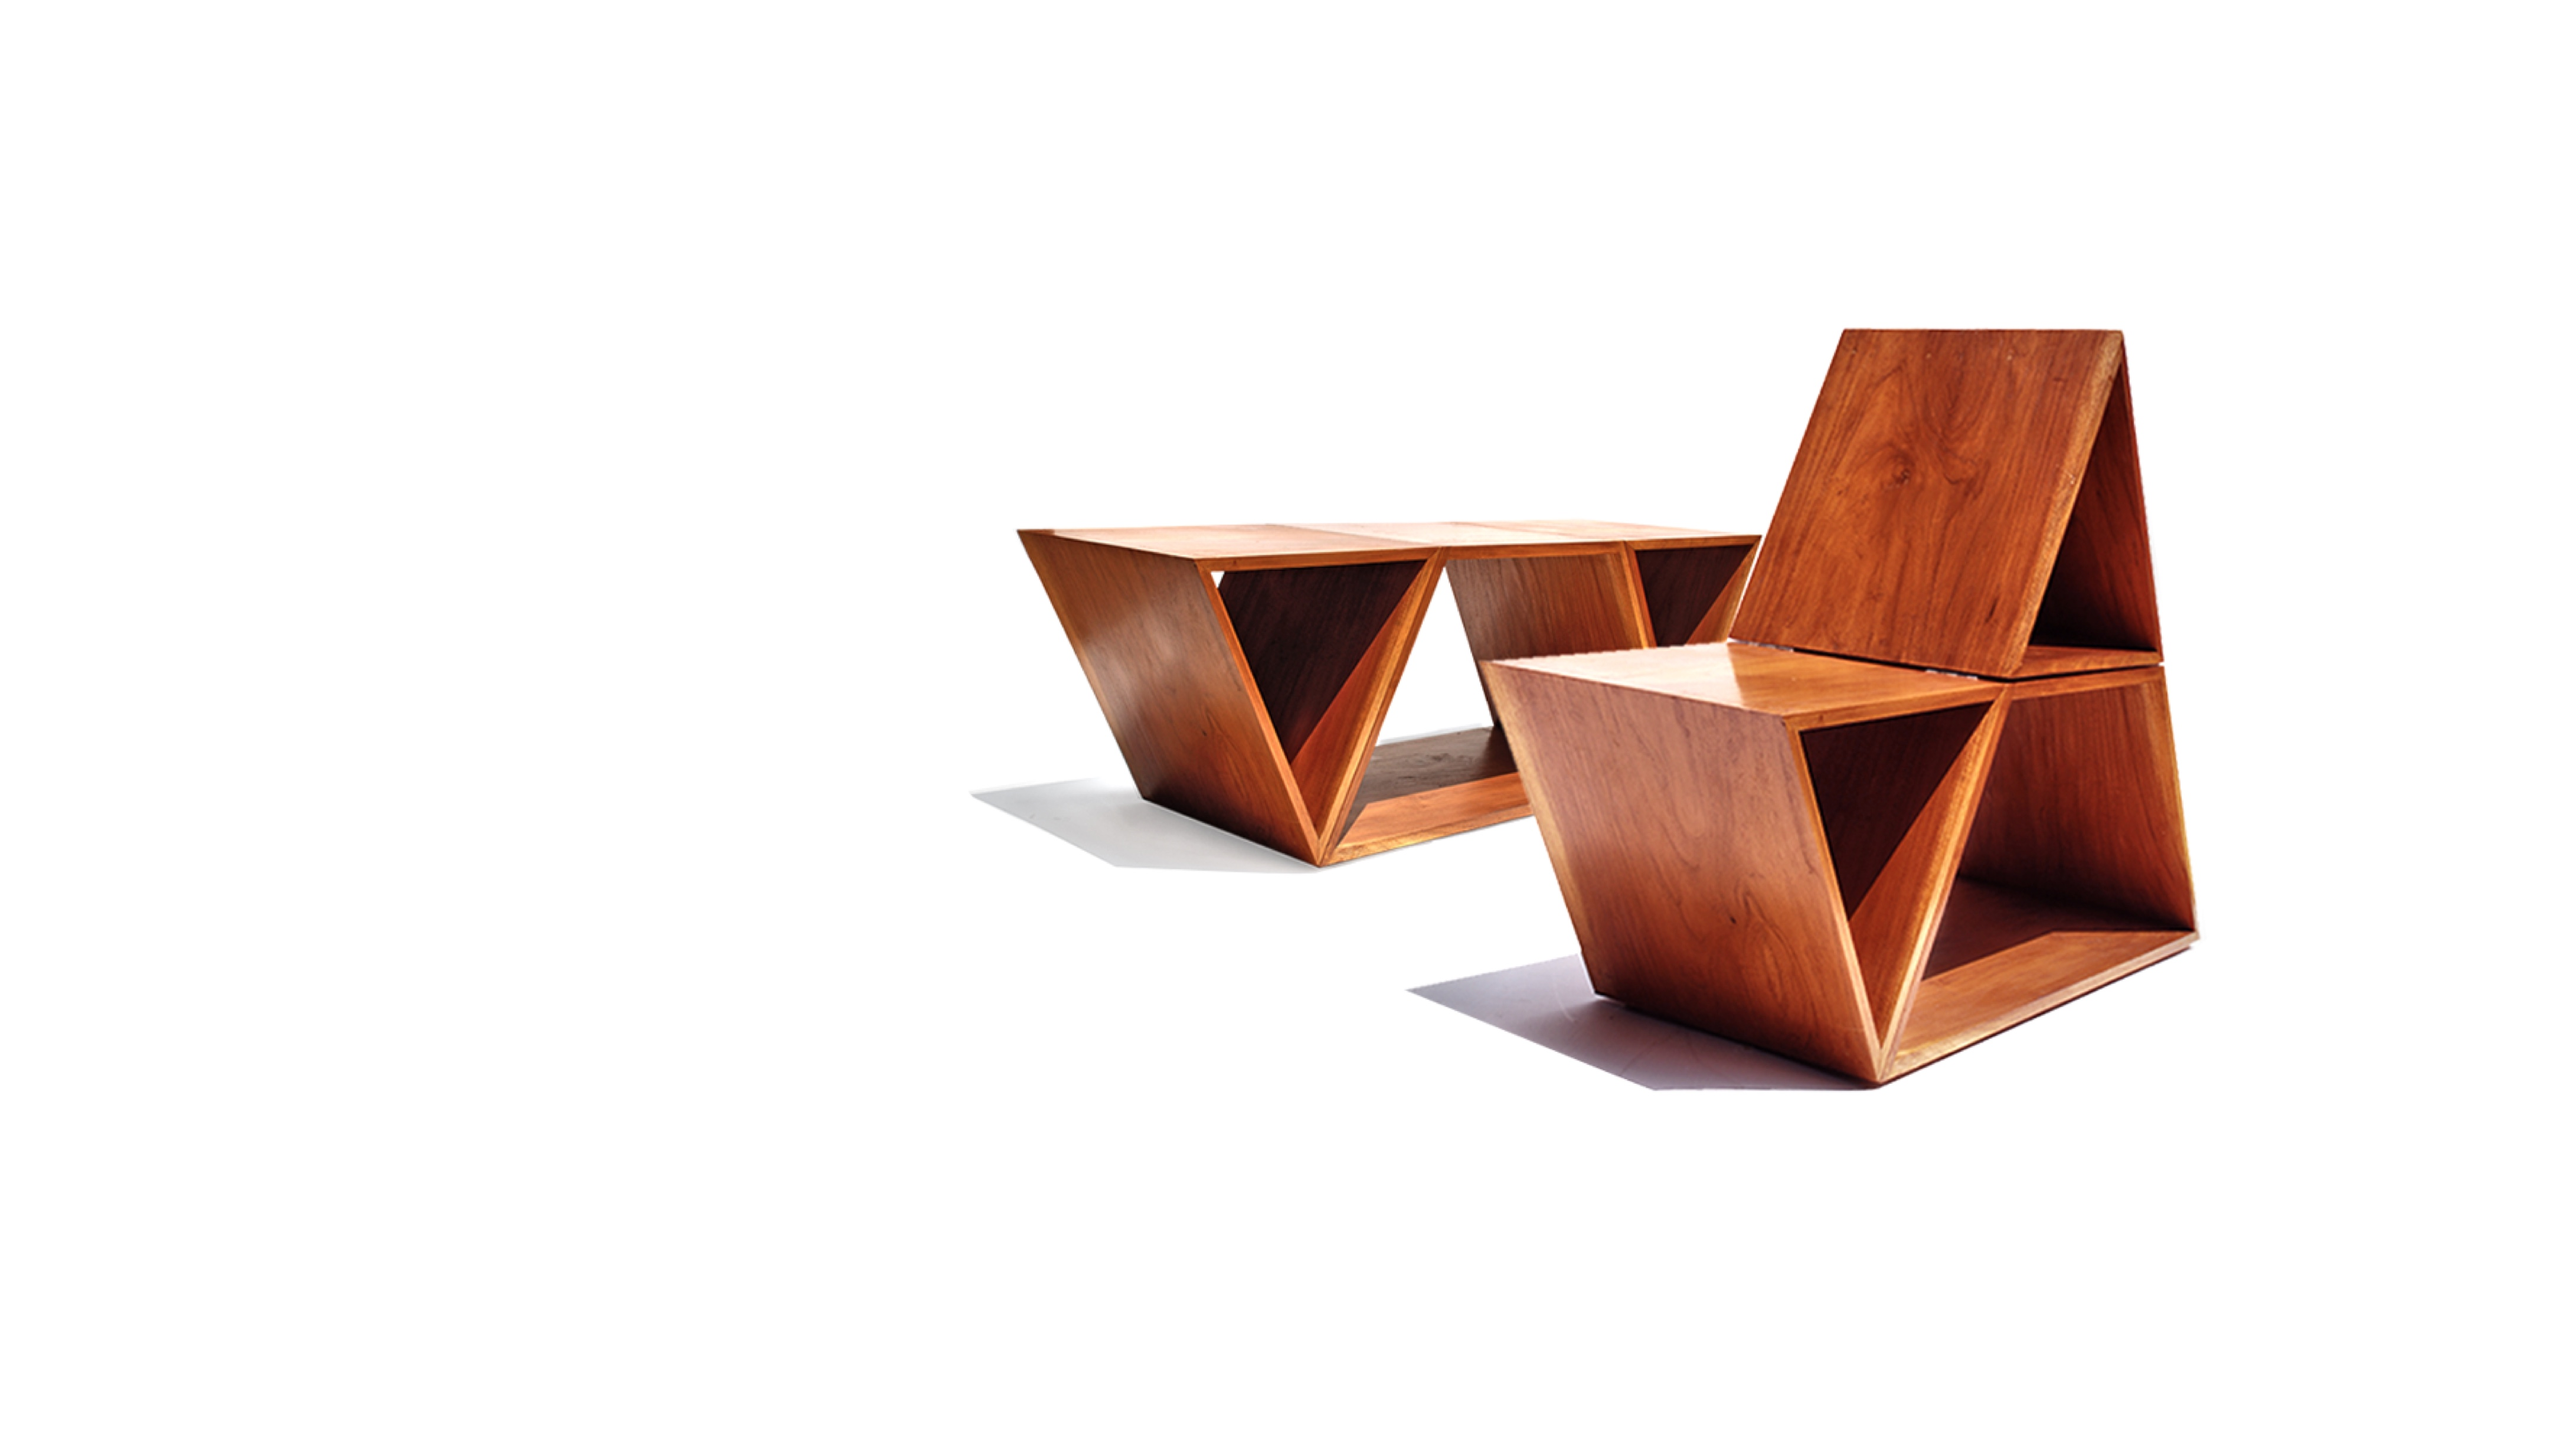
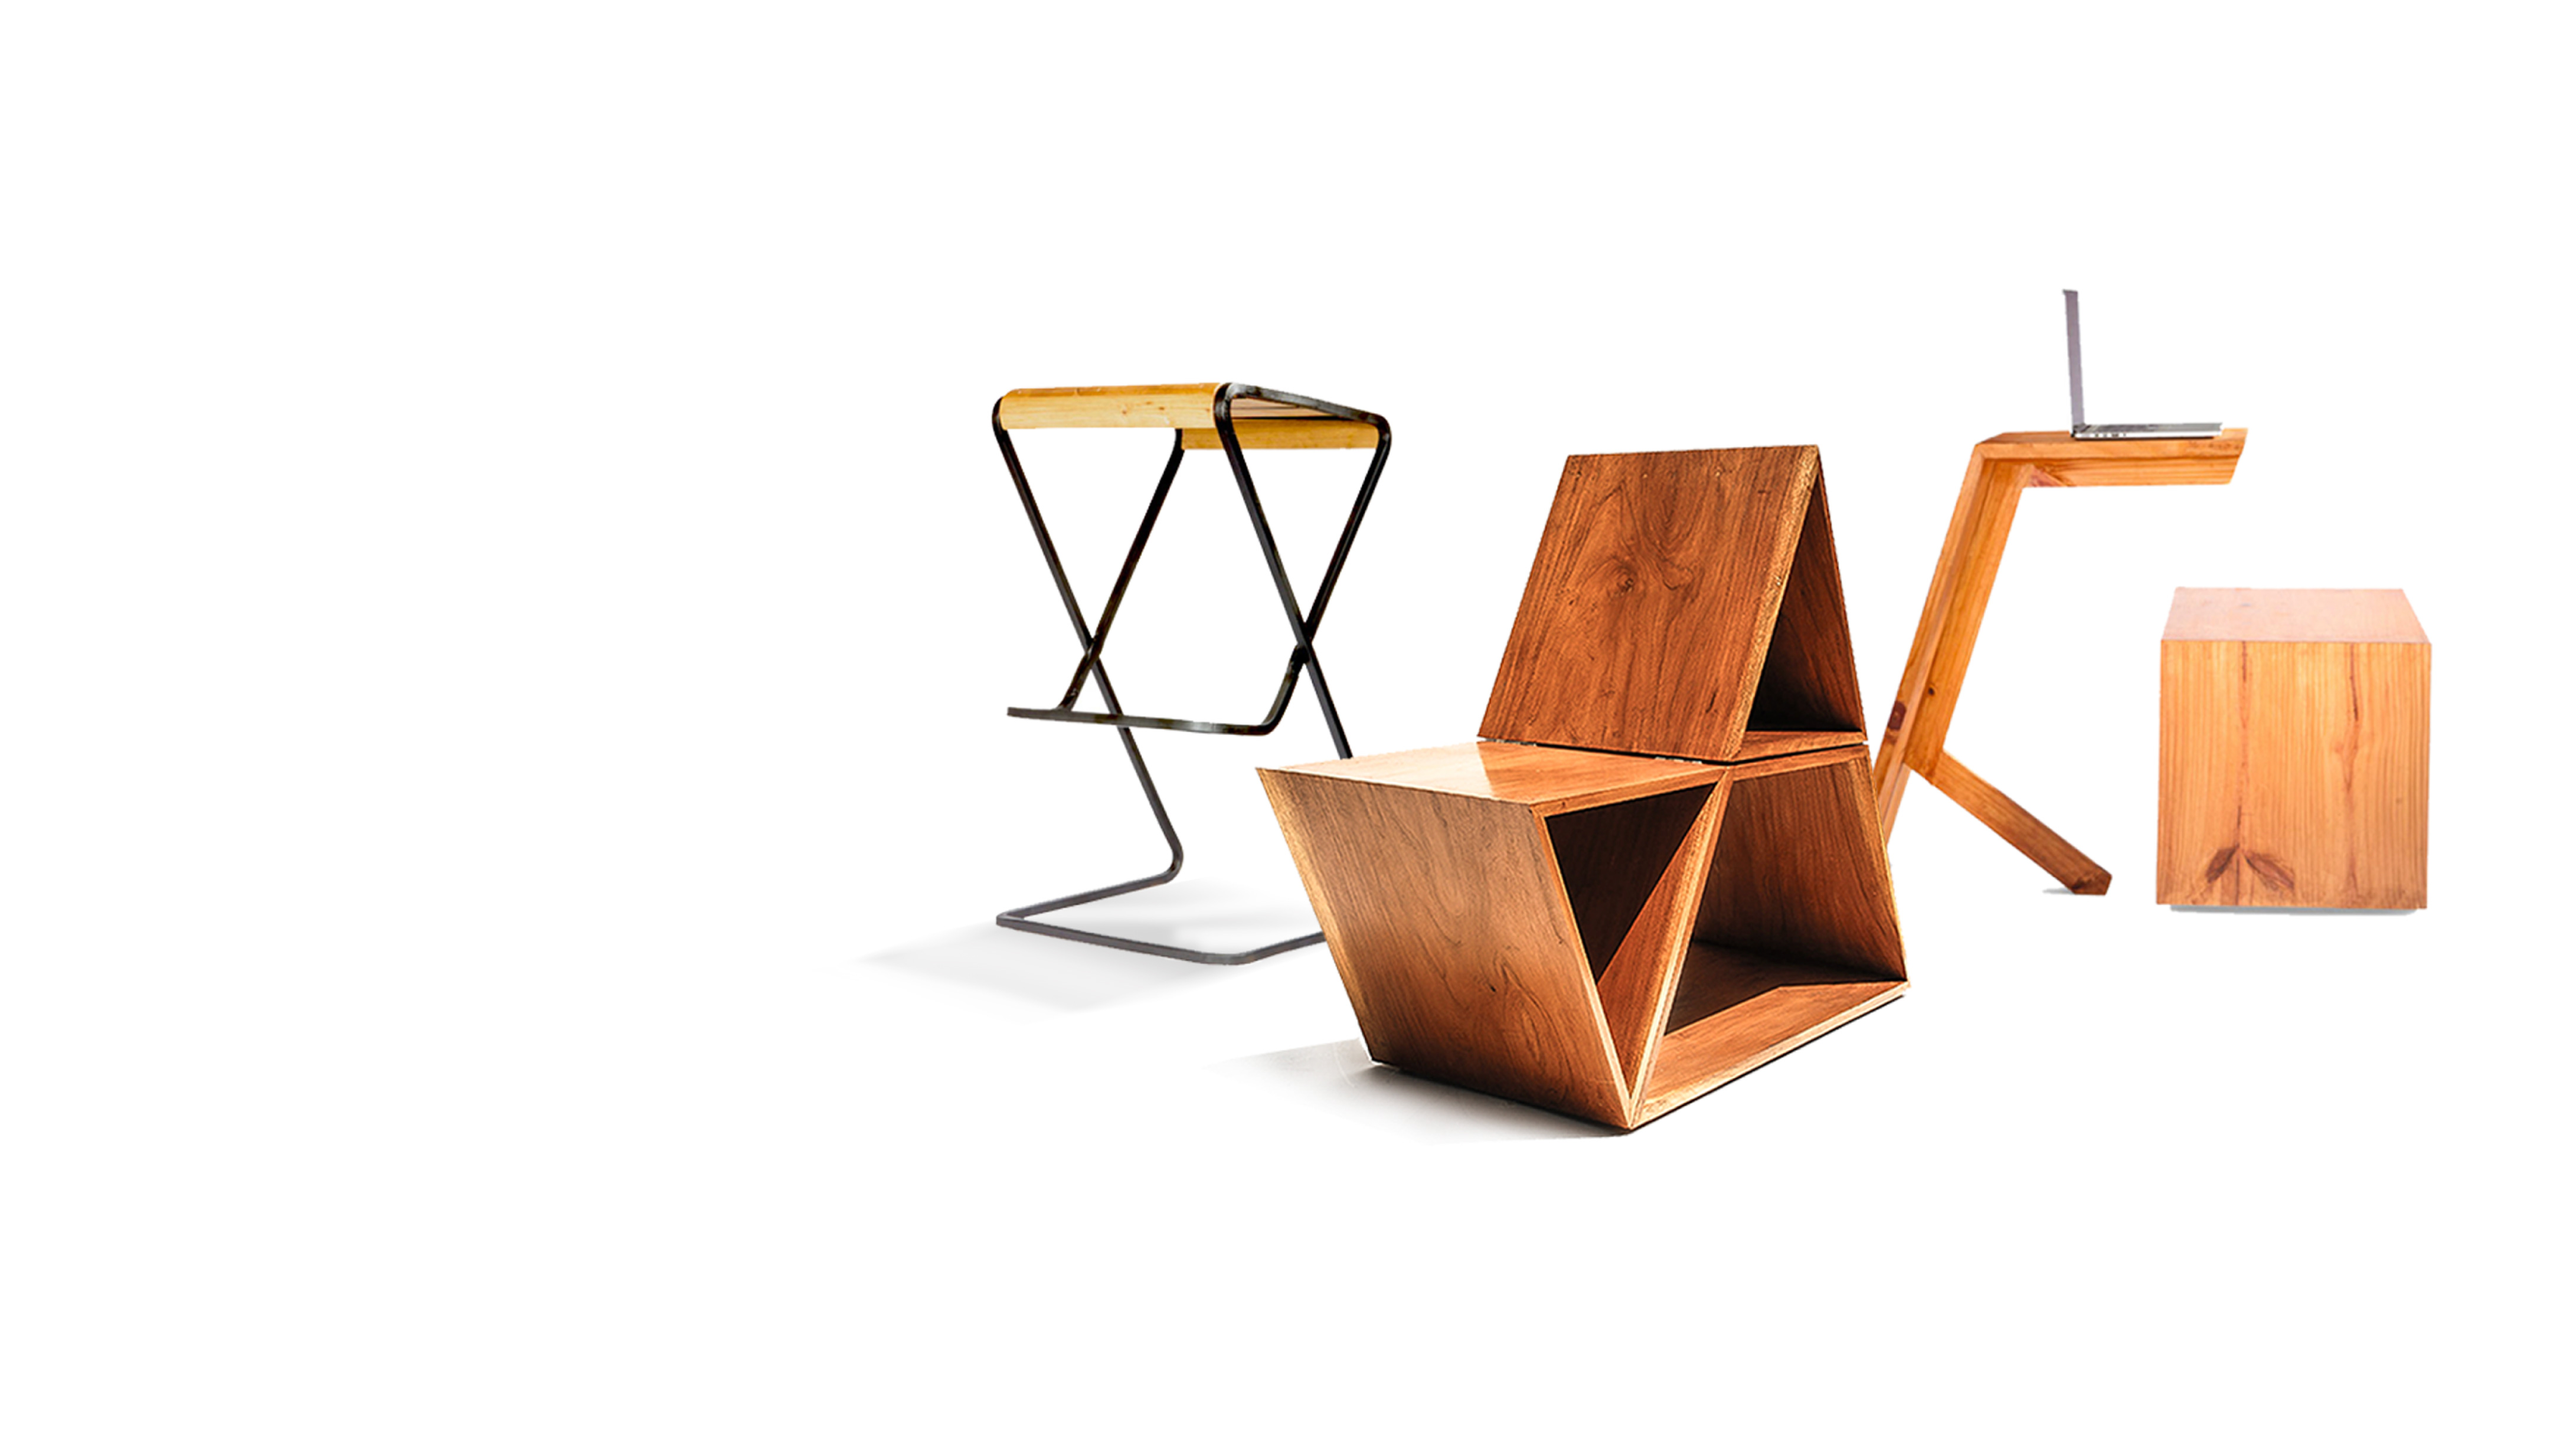
updated contents

Changed region(s): [[0.375, 0.2173, 0.9688, 0.8072]]

diff --git a/src/components/home/StudioSlideshow.js b/src/components/home/StudioSlideshow.js
@@ -9,7 +9,7 @@ import cafeMobile from '../../images/home/slideshow/cafe-mobile.png';
 import mouse from '../../images/home/slideshow/mouse.png';
 import arrowIcon from  '../../images/home/arrow-icon.png';
 import customFurniture from '../../images/home/slideshow/custom-furniture.jpg';
-import customFurnitureMobile from '../../images/home/slideshow/custom-furniture-mobile.png';
+import customFurnitureMobile from '../../images/home/slideshow/custom-furniture-mobile.jpg';
 import brandStrategy from '../../images/home/slideshow/brand-strategy.jpg';
 import brandStrategyMobile from '../../images/home/slideshow/brand-strategy-mobile.png';
 import uiUx from '../../images/home/slideshow/ui-ux.jpg';
@@ -39,7 +39,7 @@ function StudioSlideshow() {
 			]
 		},
 		{
-			captionHead:'Brand Strategy Agency', 
+			captionHead:'Brand Identity & Packaging Design ', 
 			captionContent: [
 				'Creating customised brand strategies to help expand your overall reach, and attract new customers',
 				'BRANDING AND PACKAGING'
@@ -53,19 +53,19 @@ function StudioSlideshow() {
 			]
 		},
 		{
-			captionHead:'Horticulture Architecture and Design', 
+			captionHead:'Architecture and Design', 
 			captionContent: [
 				'Training Centre Building Design and architecture is critical to the success of a skill development centre and sets the first impression.',
 				'FURNITURE DESIGN'
 			]
 		},
-		/*{
+		{
 			captionHead:'Retail Innovation Strategy & Design', 
 			captionContent: [
 				"Our mantra is, 'Innovation through retail design'. We connect to customers through emotionally rich interiors and drive engagement.",
 				'RETAIL'
 			]
-		}*/
+		}
 	];
 	const [carouselContent, setCarouselContent] = useState(carouselContents[0]);
 	const handleSelect = (selectedIndex) => {
@@ -79,8 +79,8 @@ function StudioSlideshow() {
 	const slideCaptionContent = (slideContent, index) => {
 		return (
 			<>
-				<p className={(index===4) && 'architecture-heading'} >{slideContent.captionHead}</p>
-				<p className={(index===4) && 'architecture-content'}>{slideContent.captionContent[0]}</p>
+				<p>{slideContent.captionHead}</p>
+				<p className={'architecture-content'}>{slideContent.captionContent[0]}</p>
 				{(width<768) &&(<div className='slideshow-indicator'>
 					<span style={{backgroundColor: (index===0) ? '#ff0000':'#d8d8d8'}}></span>
 					<span style={{backgroundColor: (index===1) ? '#ff0000':'#d8d8d8'}}></span>
@@ -132,22 +132,25 @@ function StudioSlideshow() {
 					      alt="Architecture Slide"
 					    />
 					  </Carousel.Item>}
-					  {/*<Carousel.Item className='architecture-slide'>
+					  {<Carousel.Item className='architecture-slide'>
 					    <img
 					      className="d-block w-100"
 					      src={(width >= 768) ? retail : retailMobile}
 					      alt="Architecture Slide"
 					    />
-					  </Carousel.Item>*/}
+					  </Carousel.Item>}
 				</Carousel>
 				{(width >= 768) && (
-					<div className='studio-slide-caption'>
-						{slideCaptionContent(carouselContent, index)}
-					</div>
+					<>
+						<div className='studio-slide-caption'>
+							{slideCaptionContent(carouselContent, index)}
+						</div>
+						<div className='caption-background'></div>
+					</>
 				)}		
 				<span className='mouse-pointer'><img src={mouse} alt='mouse pointer' /></span>
 			</Row>
-			{(width < 768) && (<div className='studio-slide-caption'z>{slideCaptionContent(carouselContent, index)}</div>)}
+			{(width < 768) && (<div className='studio-slide-caption'>{slideCaptionContent(carouselContent, index)}</div>)}
 		</div>
 			
 	);

diff --git a/src/components/home/DesignProcess.js b/src/components/home/DesignProcess.js
@@ -27,23 +27,19 @@ function DesignProcess() {
 			<Row className='design-process-img-details'>
 				<Col md={3} xs={6} className='design-process-img-desc' style={{paddingLeft: (width >=768) && '2em'}}>
 					{(width < 768) && <Image src={discovery} />}
-					<p>CLIENT MEETING</p>
-					<p>Visioning & Strategy Planning & Scheduling Understanding the space Client Interview Gather Brand Assets</p>
+					<p>CLIENT MEETING</p>					
 				</Col>
 				<Col md={3} xs={6} className='design-process-img-desc'>
 					{(width < 768) && <Image src={customerResearch} />}
 					<p>USER/CUSTOMER RESEARCH</p>
-					<p>Competitive Analysis User/Customer Research Gather Proposed Materials Implementation Budget Concept Presentation</p>
 				</Col>
 				<Col md={3} xs={6} className='design-process-img-desc'>
 					{(width < 768) && <Image src={ideate} />}
-					<p>DESIGN DEVELOPMENT</p>
-					<p>Concept Refinement Develop Concepts Design Specifications Detail Drawings Develop Prototypes</p>
+					<p>DESIGN DEVELOPMENT</p>					
 				</Col>
 				<Col md={3}  xs={6} className='design-process-img-desc'>
 					{(width < 768) && <Image src={implitation} />}
 					<p>EXECUTION</p>
-					<p>Coordination with other trades Implementation Budget Schedule Installation Produce and Install Project Complete</p>
 				</Col>
 			</Row>
 			<Row className='know-more-wrapper'>

diff --git a/src/css/home/studio-slideshow.scss b/src/css/home/studio-slideshow.scss
@@ -5,11 +5,7 @@
 		position: relative !important;
 	}
 	.studio-slides {
-		.slide-caption {
-			background-image: url('../../images/home/slideshow/caption-background.png');
-			background-size: 100%;
-			background-repeat: no-repeat;
-			background-position: center;
+		.slide-caption {			
 			top: 25%;
 		    width: 32.16vw;
 		    left: 10.5%;
@@ -57,6 +53,7 @@
 				font-family: Proxima Nova Rg;
 				font-weight: normal;
 				width: 22em;
+				font-size: 10px;
 			}
 
 			p:first-child.architecture-slide  {
@@ -93,8 +90,6 @@
 				}
 			}
 		}
-
-
 		.carousel-indicators {
 		    li {
 				border-radius: 100%;
@@ -147,13 +142,23 @@
 		}	
 	}
 
+	.caption-background {
+		position: absolute;			
+		background-image: url('../../images/home/slideshow/caption-background.png');
+		background-repeat: no-repeat;		
+	    background-position: center;
+	    top: 11%;
+	    left: 11%;
+    	padding: 16.2em;
+	    background-size: cover;
+	    opacity: 0.7;
+	}
+
 	.studio-slide-caption {
 		position: absolute;	
 		left: 10.6%;
 		top: 26.8%;
-		background-image: url('../../images/home/slideshow/caption-background.png');
-			background-size: 100%;
-			background-repeat: no-repeat;
+		
 
 		p {
 			 font-family: Proxima Nova Rg;
@@ -392,6 +397,7 @@
 				}
 			}
 			.studio-slide-caption {
+				z-index: 1;
 				left: 10.6%;
 				top: 26.8%;
 

diff --git a/src/routes/NavigationBar.js b/src/routes/NavigationBar.js
@@ -26,7 +26,7 @@ function NavigationBar(argument) {
 					<Navbar.Brand href="#" bsPrefix='navbar brand-image'><img src={brandImage} alt='brandImage'/></Navbar.Brand>
 				  	<Navbar id="responsive-navbar-nav" bsPrefix={width > 768 ? 'navbar studio-navbar':''}>
 				  		<Nav className="mx-auto" >
-				  			<Nav.Link bsPrefix='nav-link route-type'><NavLink exact activeClassName='activeNav' to='/about-studio/team'>ABOUT</NavLink></Nav.Link>
+				  			<Nav.Link bsPrefix='nav-link route-type'><NavLink exact activeClassName='activeNav' to='/about-studio/firm'>ABOUT</NavLink></Nav.Link>
 					      	<Nav.Link bsPrefix='nav-link route-type'><NavLink exact activeClassName='activeNav' to='/category/all'>WORK</NavLink></Nav.Link>
 					      	<Nav.Link href='https://karankal.store/' target='_blank' bsPrefix='nav-link route-type'><a>STORE</a></Nav.Link>
 					      	<Nav.Link bsPrefix='nav-link route-type' href='https://studiokarankal.wordpress.com/' target='_blank'><a>BLOG</a></Nav.Link>

diff --git a/src/container/Home.js b/src/container/Home.js
@@ -13,6 +13,7 @@ import ServiceOffered from '../components/home/ServiceOffered';
 import DesignProcess from '../components/home/DesignProcess';
 import Testimonals from '../components/home/Testimonals';
 import Feature from '../components/home/Feature';
+import Story from '../components/home/Story';
 // import ContactUs from '../components/home/ContactUs';
 import ContactUs  from '../components/category/contactus/ContactUs';
 import contactOptions  from '../components/category/contactus/ContactOptions';
@@ -35,6 +36,7 @@ function Home() {
 							<DesignProcess/>
 							<Testimonals/>
 							<Feature/>
+							<Story/>
 						</Col>
 					<Col md={1} sm ={0} className='home-content-margin'></Col>
 				</Row>

diff --git a/src/components/home/Story.js b/src/components/home/Story.js
@@ -1,0 +1,25 @@
+import React from  'react';
+import {
+	Col,
+	Row,
+	ResponsiveEmbed
+} from 'react-bootstrap';
+
+function Story() {
+	return (
+		<div className='story-wrapper'>
+			<Row>
+				<Col>
+					<p className='story-heading'>Story</p>
+					<div className='video-style'>
+					  <ResponsiveEmbed aspectRatio="16by9">
+					    <embed type="video/mp4" src='https://player.vimeo.com/video/388785172' />
+					  </ResponsiveEmbed>
+					</div>
+				</Col>
+			</Row>
+		</div>
+	)
+}
+
+export default Story;

diff --git a/src/css/home/design-process.scss b/src/css/home/design-process.scss
@@ -67,7 +67,6 @@
 			}
 
 			p:last-child {
-			    font-weight: normal;
 			    line-height: 1.59;
 			    text-align: center;
 			    color: #4a4a4a;
@@ -194,6 +193,13 @@
 			.design-process-img-desc {
 				p {
 					font-size: 14px;
+					font-family: Proxima Nova Rg;
+				    font-weight: bold;
+				    font-stretch: normal;
+				    font-style: normal;
+				    line-height: normal;
+				    letter-spacing: normal;
+				    color: #000000;
 				}
 			}
 

diff --git a/src/css/category/about-us.scss b/src/css/category/about-us.scss
@@ -78,7 +78,7 @@
 }
 
 .About-us-header > .Project-page-title {
-  margin: 10px 20px 0px;
+  margin: 10px 4px 0px;
 }
 
 .About-us-page .state-page {
@@ -101,7 +101,7 @@
 }
 
 .About-us-page .subText {
-  font-weight: 300;
+  font-weight: inherit;
   margin-top: 10px;
   color: rgba(33, 33, 33, 1);
   font-size: 17px;
@@ -155,6 +155,7 @@
 
 .About-us-page .expertiseImage {
   margin: 10px 0px;
+  width: auto;
 }
 
 .About-us-page .tagline {

diff --git a/src/components/about-us/AboutUs.js b/src/components/about-us/AboutUs.js
@@ -1,4 +1,5 @@
 import pageImage from '../../images/category/aboutUsImages/pageImage.jpg';
+import firmnew from '../../images/category/aboutUsImages/firmnew.jpg';
 import rahulkarankal from '../../images/category/aboutUsImages/home.jpg';
 import kintanchauhan from '../../images/category/aboutUsImages/kintanchauhan.jpeg';
 import shrirambonagiri from '../../images/category/aboutUsImages/shrirambonagiri.jpg';

diff --git a/src/css/home/story.scss b/src/css/home/story.scss
@@ -1,0 +1,21 @@
+.story-wrapper {
+	margin-top: 64px;
+	padding-bottom: 64px;
+	.story-heading	{
+		text-align: center;
+		font-family: Proxima Nova Rg;
+		font-size: 36px;
+		font-weight: bold;
+		font-stretch: normal;
+		font-style: normal;
+		line-height: normal;
+		letter-spacing: normal;
+		color: #000000;
+	}
+
+	.video-style {
+		margin: 0 auto;
+		width: 100%;
+		height: auto;
+	}
+}

diff --git a/src/routes/NavigationBarFooter.js b/src/routes/NavigationBarFooter.js
@@ -57,7 +57,7 @@ function NavigationBarFooter() {
 					</Col>
 					<Col xs={3} className='footer-images-container my-auto'>
 						<Nav.Link href="#" bsPrefix='nav-link nav-images'>
-							<NavLink exact activeClassName='activeNav' to='/shopify'>
+							<NavLink exact activeClassName='activeNav' to='/category/all'>
 							{/*<Figure>
 							  <Figure.Image
 							    width={40}

diff --git a/src/css/navigation-bar/navigation-footer.scss b/src/css/navigation-bar/navigation-footer.scss
@@ -16,6 +16,7 @@
 				background-image: url('../../images/nav-bar-footer/home.png');
 			}
 			.shop {
+				margin-left: 2px;
 				background-image: url('../../images/nav-bar-footer/work.png');
 			}
 			.projects {
